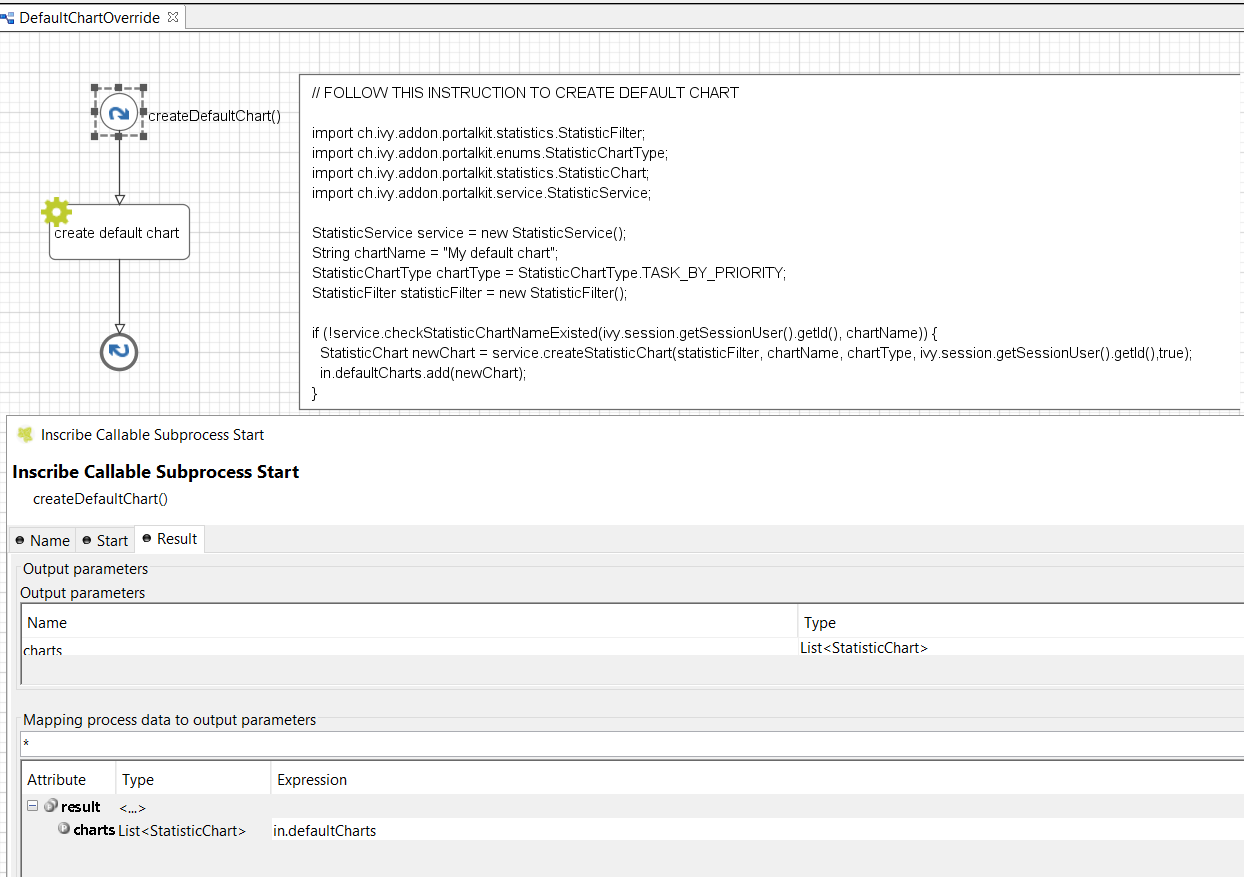
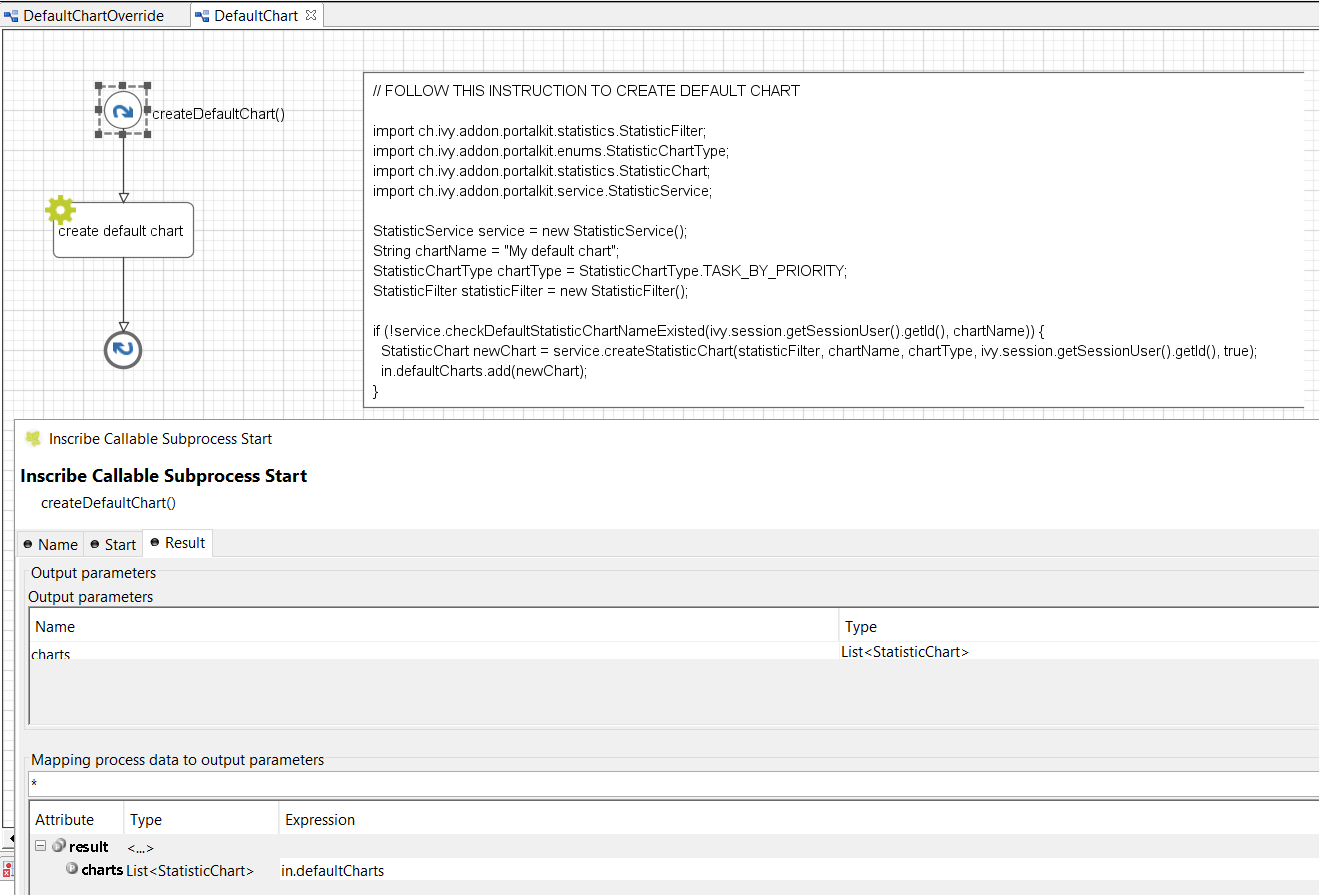
IVYPORTAL-5837 Improvements for Statistics - Enhance Statistics "homepage" III - Implement

Changed region(s): [[0.0, 0.0, 1.0, 1.0], [0.0, 0.3079, 0.0305, 0.4002]]

diff --git a/AxonIvyPortal/PortalKit/src/ch/ivy/addon/portalkit/service/StatisticService.java b/AxonIvyPortal/PortalKit/src/ch/ivy/addon/portalkit/service/StatisticService.java
@@ -7,7 +7,6 @@ import static ch.ivy.addon.portalkit.statistics.StatisticChartConstants.BEFORE_8
 import static ch.ivy.addon.portalkit.statistics.StatisticChartConstants.CASE_CATEGORIES_CMS;
 import static ch.ivy.addon.portalkit.statistics.StatisticChartConstants.CREATED_CASE_KEY;
 import static ch.ivy.addon.portalkit.statistics.StatisticChartConstants.DECEMBER_CMS;
-import static ch.ivy.addon.portalkit.statistics.StatisticChartConstants.DEFAULT_CHART;
 import static ch.ivy.addon.portalkit.statistics.StatisticChartConstants.DONE_CASE_KEY;
 import static ch.ivy.addon.portalkit.statistics.StatisticChartConstants.EXCEPTION_PRIORITY_KEY;
 import static ch.ivy.addon.portalkit.statistics.StatisticChartConstants.EXPIRY_PERIOD_CMS;
@@ -1162,9 +1161,15 @@ public class StatisticService extends BusinessDataService<StatisticChart> {
   }
 
   public boolean hasDefaultChart(long userId) {
-    List<StatisticChart> result =
-        repo().search(getType()).numberField(USER_ID).isEqualTo(userId).and().textField(DEFAULT_CHART)
-            .isEqualToIgnoringCase("true").execute().getAll();
-    return !result.isEmpty();
+    List<StatisticChart> findStatisticChartsByUserId = findStatisticChartsByUserId(userId);
+    return findStatisticChartsByUserId.stream().anyMatch(chart -> StringUtils.equalsIgnoreCase("true", chart.getDefaultChart()));
+  }
+  
+  public boolean checkDefaultStatisticChartNameExisted(long userId, String chartName) {
+    List<StatisticChart> statisticChartList = findStatisticChartsByUserId(userId);
+    return statisticChartList.stream().filter(
+        chart -> StringUtils.equals(chart.getName(), chartName) && 
+        StringUtils.equalsIgnoreCase("true", chart.getDefaultChart()))
+        .findFirst().isPresent();
   }
 }

diff --git a/AxonIvyPortal/PortalKit/src/ch/ivy/addon/portalkit/statistics/StatisticChartConstants.java b/AxonIvyPortal/PortalKit/src/ch/ivy/addon/portalkit/statistics/StatisticChartConstants.java
@@ -76,7 +76,6 @@ public class StatisticChartConstants {
 
   public static final String USER_ID = "userId";
   public static final String NAME = "name";
-  public static final String DEFAULT_CHART = "defaultChart";
 
   public static final String JSON_QUERY = "jsonQuery";
   public static final String RESULT = "result";
